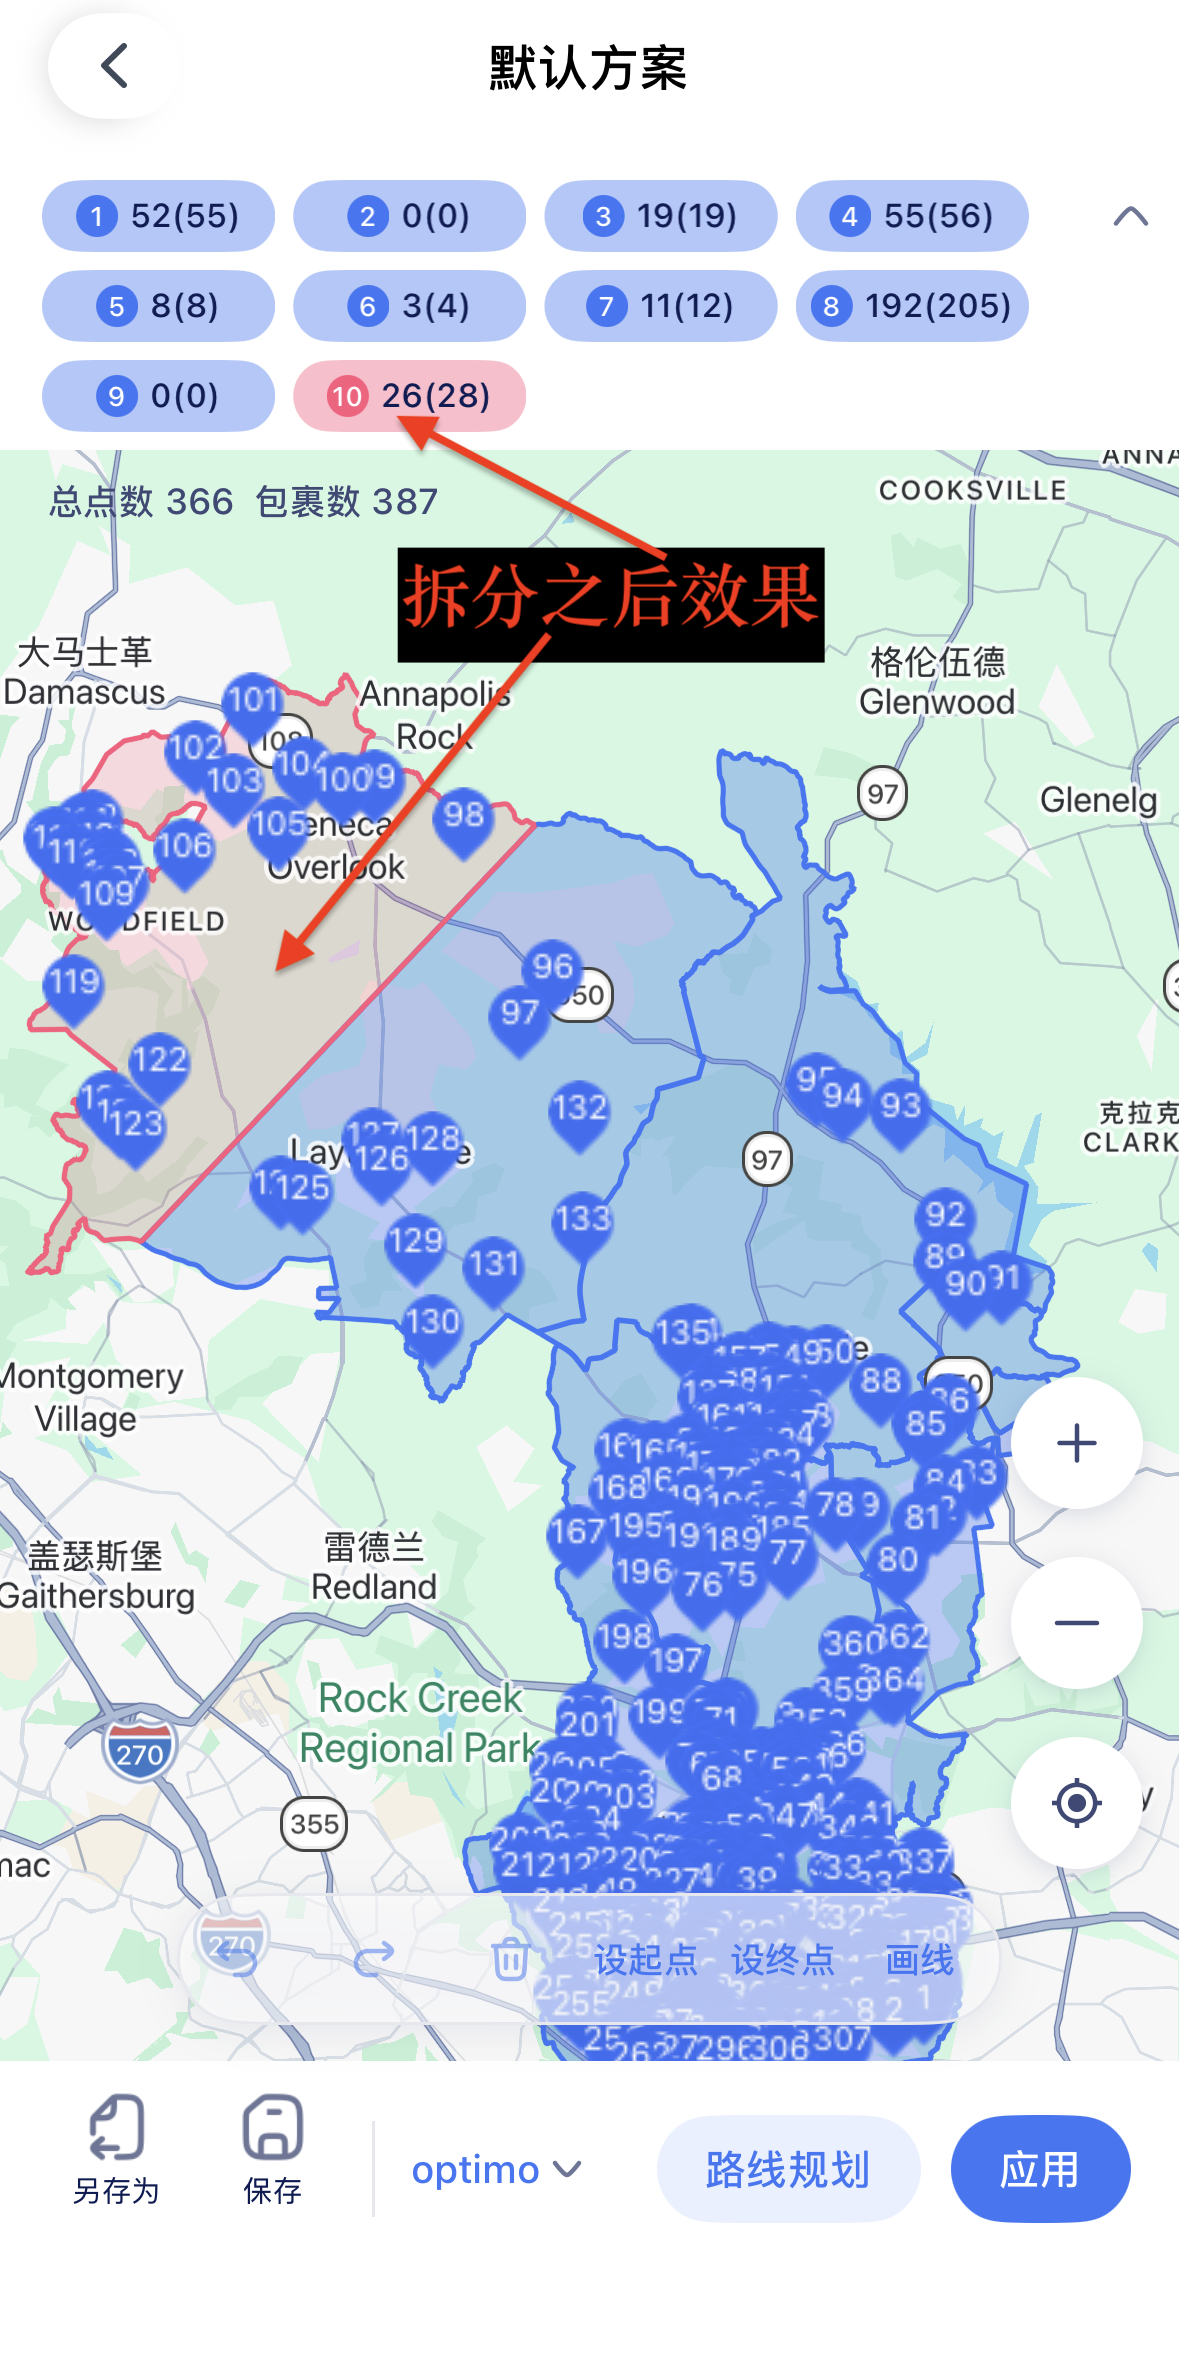
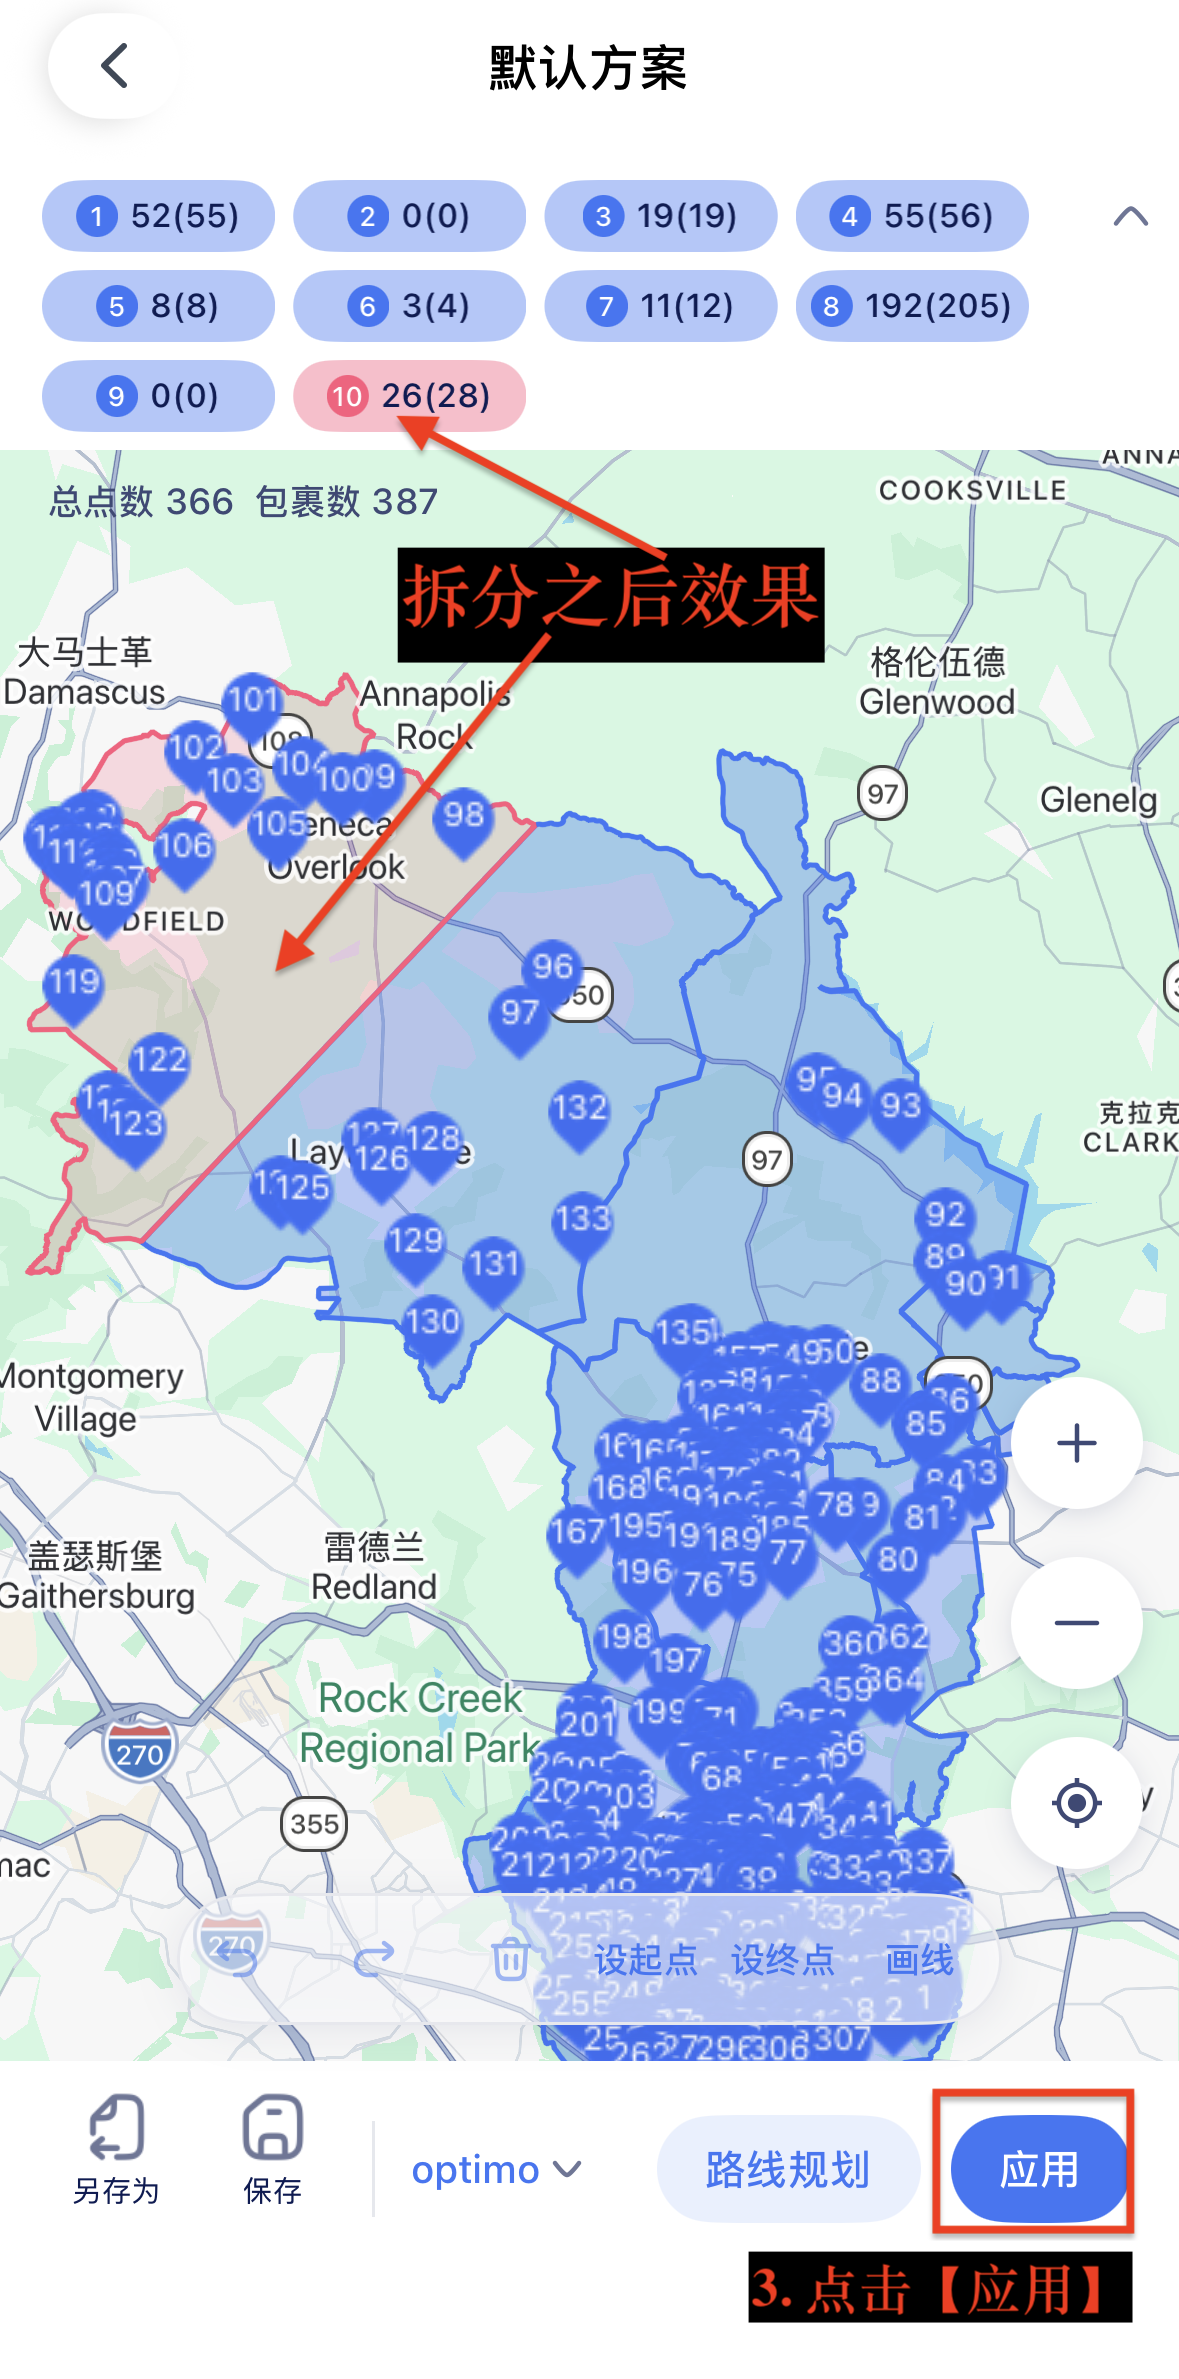
Update tutorial images from latest document

Changed region(s): [[0.6107, 0.871, 0.9771, 0.9954]]

diff --git a/src/tutorialData.js b/src/tutorialData.js
@@ -108,15 +108,15 @@ export const chapters = [
         id: 'map-provider',
         title: '如何换地图供应商',
         summary: '在底部供应商菜单中切换地图来源。',
-        steps: ['点击底部当前地图供应商名称', '在列表中选择 NEXT_BILLION、GOOGLE 或 OPTIMO'],
-        images: [image(25, '底部地图供应商切换入口'), image(26, '地图供应商选择列表')],
+        steps: ['点击底部当前地图供应商名称', '在列表中选择 NEXT_BILLION、GOOGLE 或 OPTIMO', '修改后点击“应用”'],
+        images: [image(25, '底部地图供应商切换入口'), image(26, '地图供应商选择列表'), image(27, '修改地图供应商后点击应用')],
       },
       {
         id: 'save-plan',
         title: '如何保存和另存为',
         summary: '覆盖当前方案，或保留原方案并新建副本。',
         steps: ['点击“保存”可覆盖原方案', '点击“另存为”可新建方案'],
-        images: [image(27, '点击保存覆盖原方案'), image(28, '点击另存为新建方案')],
+        images: [image(28, '点击保存覆盖原方案'), image(29, '点击另存为新建方案')],
       },
     ],
   },
@@ -202,8 +202,8 @@ const translations = {
         },
         'map-provider': {
           title: 'Change map provider',
-          steps: ['Select the current map provider name at the bottom', 'Choose NEXT_BILLION, GOOGLE, or OPTIMO from the list'],
-          imageAlts: ['Map provider control at the bottom of the page', 'Map provider selection list'],
+          steps: ['Select the current map provider name at the bottom', 'Choose NEXT_BILLION, GOOGLE, or OPTIMO from the list', 'Select “Apply” after making the change'],
+          imageAlts: ['Map provider control at the bottom of the page', 'Map provider selection list', 'Selecting Apply after changing the map provider'],
         },
         'save-plan': {
           title: 'Save and Save As',
@@ -292,8 +292,8 @@ const translations = {
         },
         'map-provider': {
           title: 'Cambiar proveedor de mapas',
-          steps: ['Pulsa el nombre del proveedor de mapas actual en la parte inferior', 'Elige NEXT_BILLION, GOOGLE u OPTIMO en la lista'],
-          imageAlts: ['Control del proveedor de mapas en la parte inferior', 'Lista de proveedores de mapas'],
+          steps: ['Pulsa el nombre del proveedor de mapas actual en la parte inferior', 'Elige NEXT_BILLION, GOOGLE u OPTIMO en la lista', 'Pulsa «Aplicar» después de realizar el cambio'],
+          imageAlts: ['Control del proveedor de mapas en la parte inferior', 'Lista de proveedores de mapas', 'Selección de Aplicar después de cambiar el proveedor de mapas'],
         },
         'save-plan': {
           title: 'Guardar y Guardar como',
